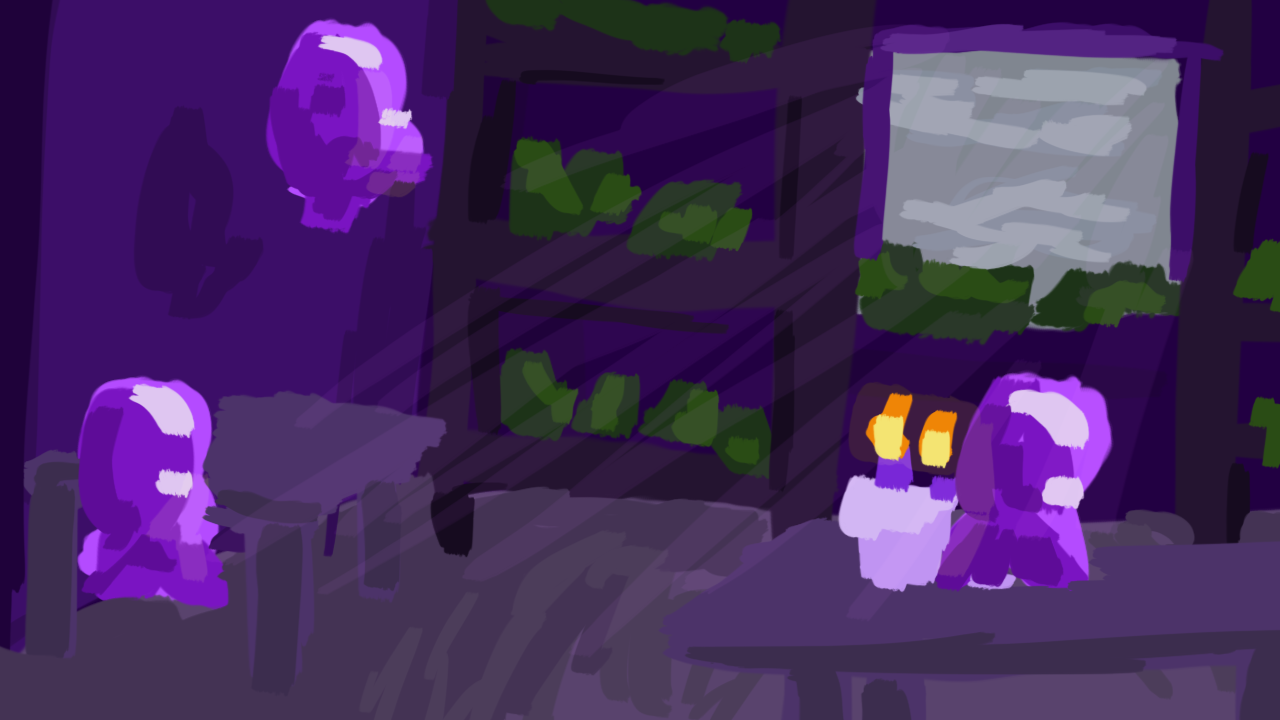
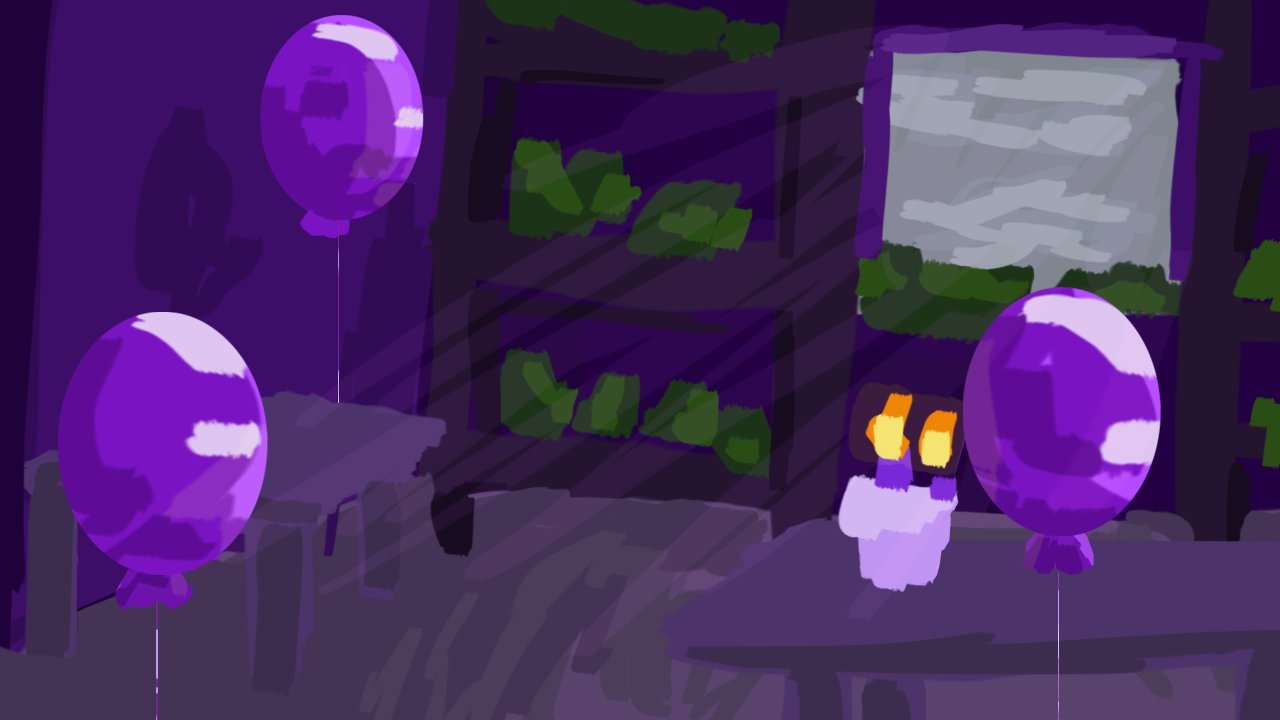
small button size/ color adjustments, added text box art, made final BG art balloons more clear

diff --git a/MassArt2025_StoryA/Assets/Scripts/Scene6Dialogue.cs b/MassArt2025_StoryA/Assets/Scripts/Scene6Dialogue.cs
@@ -112,7 +112,7 @@ public class Scene6Dialogue : MonoBehaviour {
                         Char1name.text = "";
                         Char1speech.text = "";
                         Char2name.text = "Alex";
-                        Char2speech.text = "Great! I think? Have fun on your way here?";
+                        Char2speech.text = "Great! I think? \nHave fun on your way here?";
                 }
                 else if (primeInt == 5)
                 {
@@ -131,7 +131,7 @@ public class Scene6Dialogue : MonoBehaviour {
                         Char1name.text = "";
                         Char1speech.text = "";
                         Char2name.text = "Alex";
-                        Char2speech.text = "Yeah, of course! I'm glad you came, bud.";
+                        Char2speech.text = "Yeah, of course! \nI'm glad you came, bud.";
                 }
                 else if (primeInt == 7)
                 {
@@ -212,7 +212,7 @@ public class Scene6Dialogue : MonoBehaviour {
                         Char1name.text = "";
                         Char1speech.text = "";
                         Char2name.text = "Alex";
-                        Char2speech.text = "The succulent!! I've waited so long for another one...poor leafy..";
+                        Char2speech.text = "The succulent!! \nI've waited so long for another one...poor leafy..";
                 }
                 else if (primeInt == 13)
                 {
